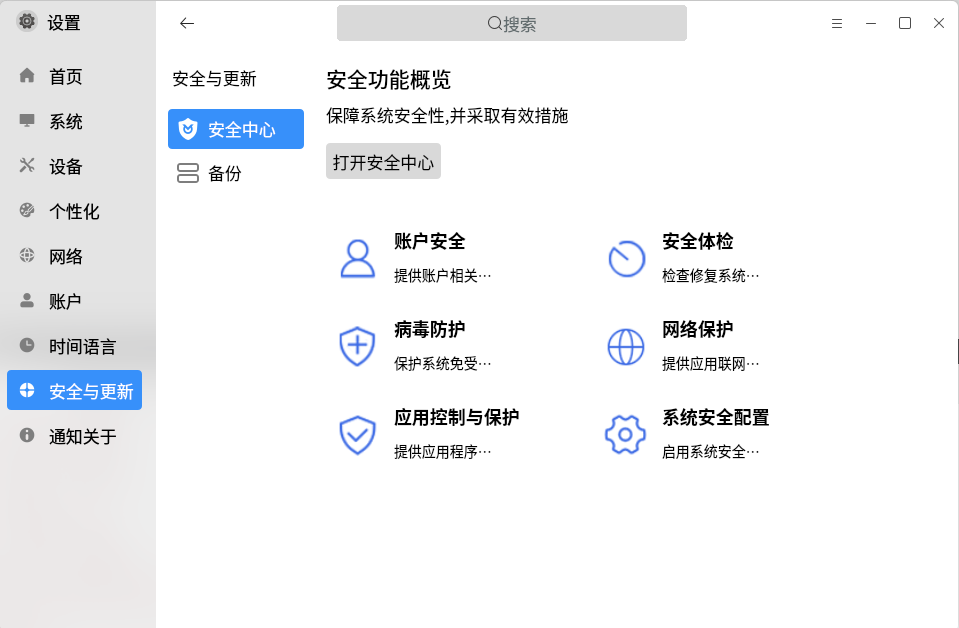
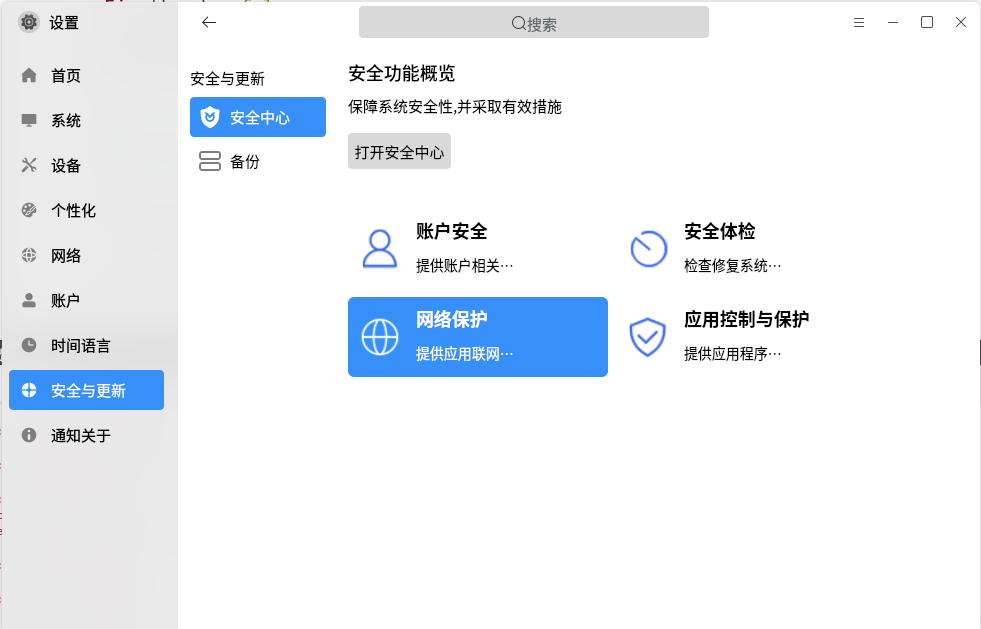
fix(User Manual): User Manual
Description: Updata User Manual

Log: 【用户手册】【安全中心】【青松】【黄河鲲鹏】用户手册修改，已经裁剪掉“病毒防护”，用户手册做修改
Bug: http://zentao.kylin.com/biz/bug-view-62015.html

diff --git a/data/zh_CN/index.md b/data/zh_CN/index.md
@@ -145,7 +145,7 @@ Tips：系统快捷键不允许修改。
 
 1）确认添加后，该快捷键的按键会显示“无效”；
 
-2）点击“disable”，并按下自定义的按键组合，若快捷键未被占用，则自动写入；
+2）点击“无”，并按下自定义的按键组合，若快捷键未被占用，则自动写入；
 
 3）鼠标悬浮在该快捷键上时，会出现删除按钮，若不再需要该快捷键，可点击删除。
 
